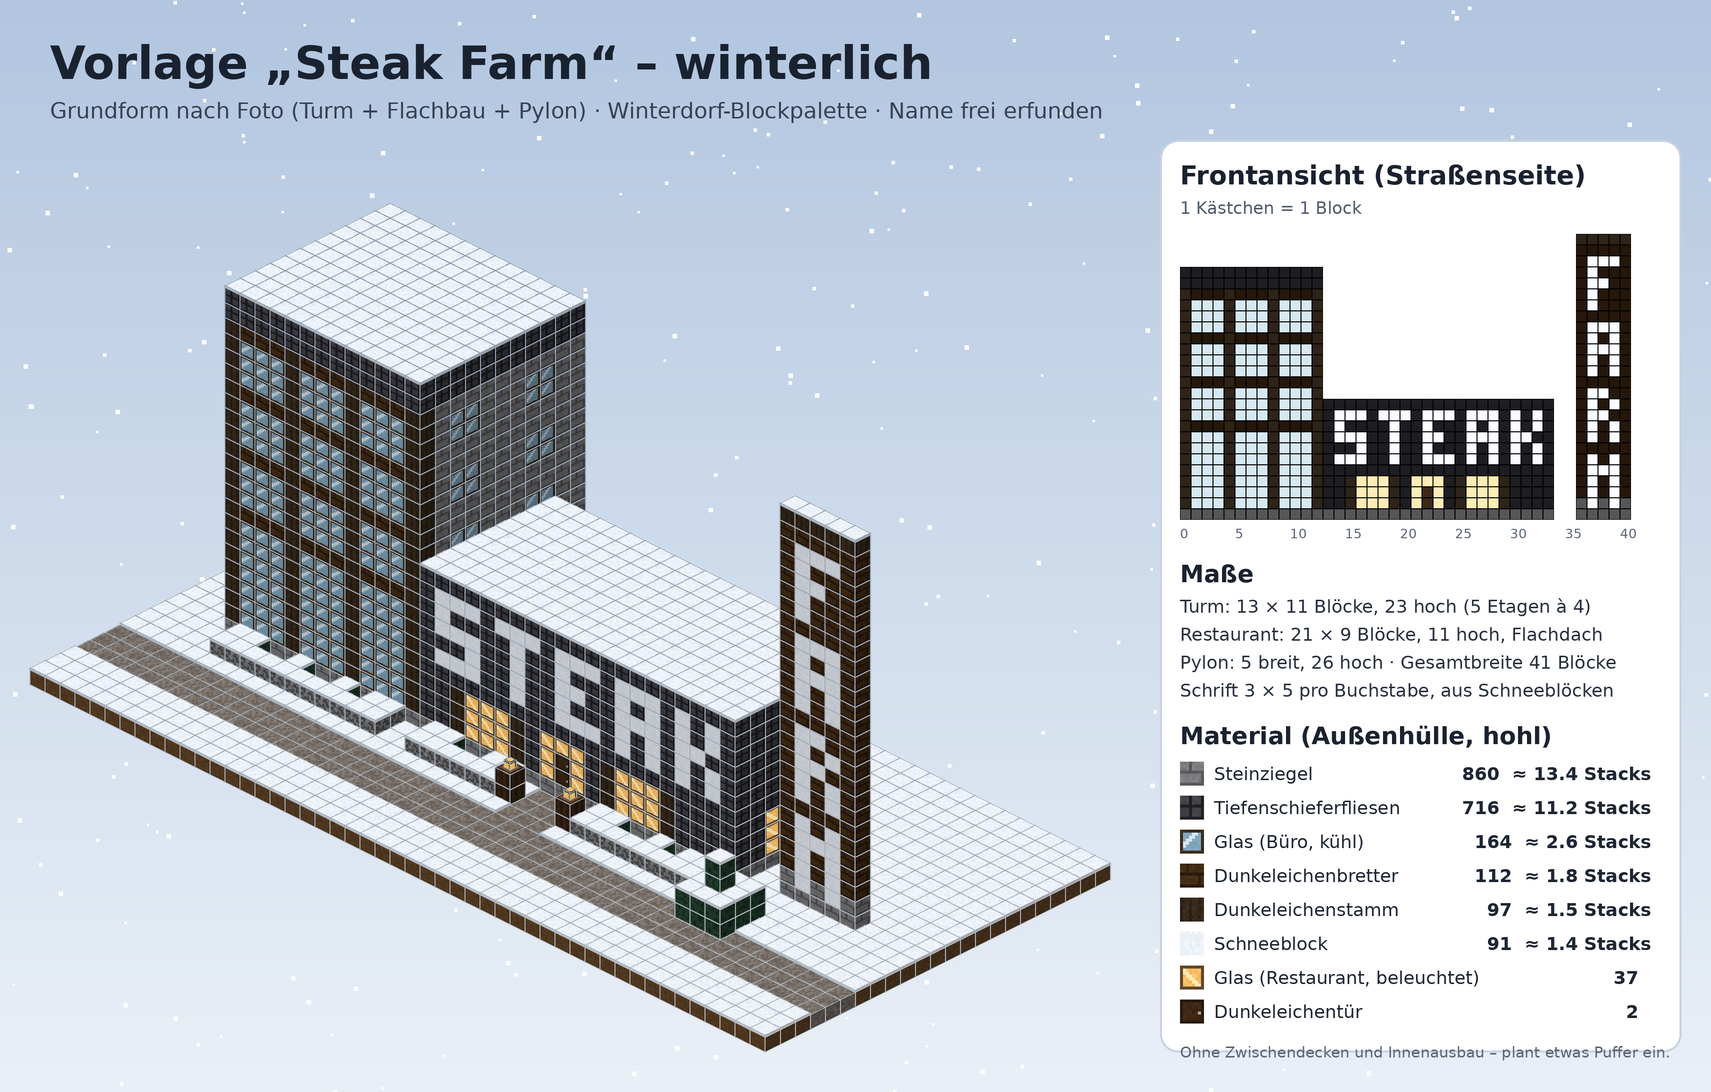
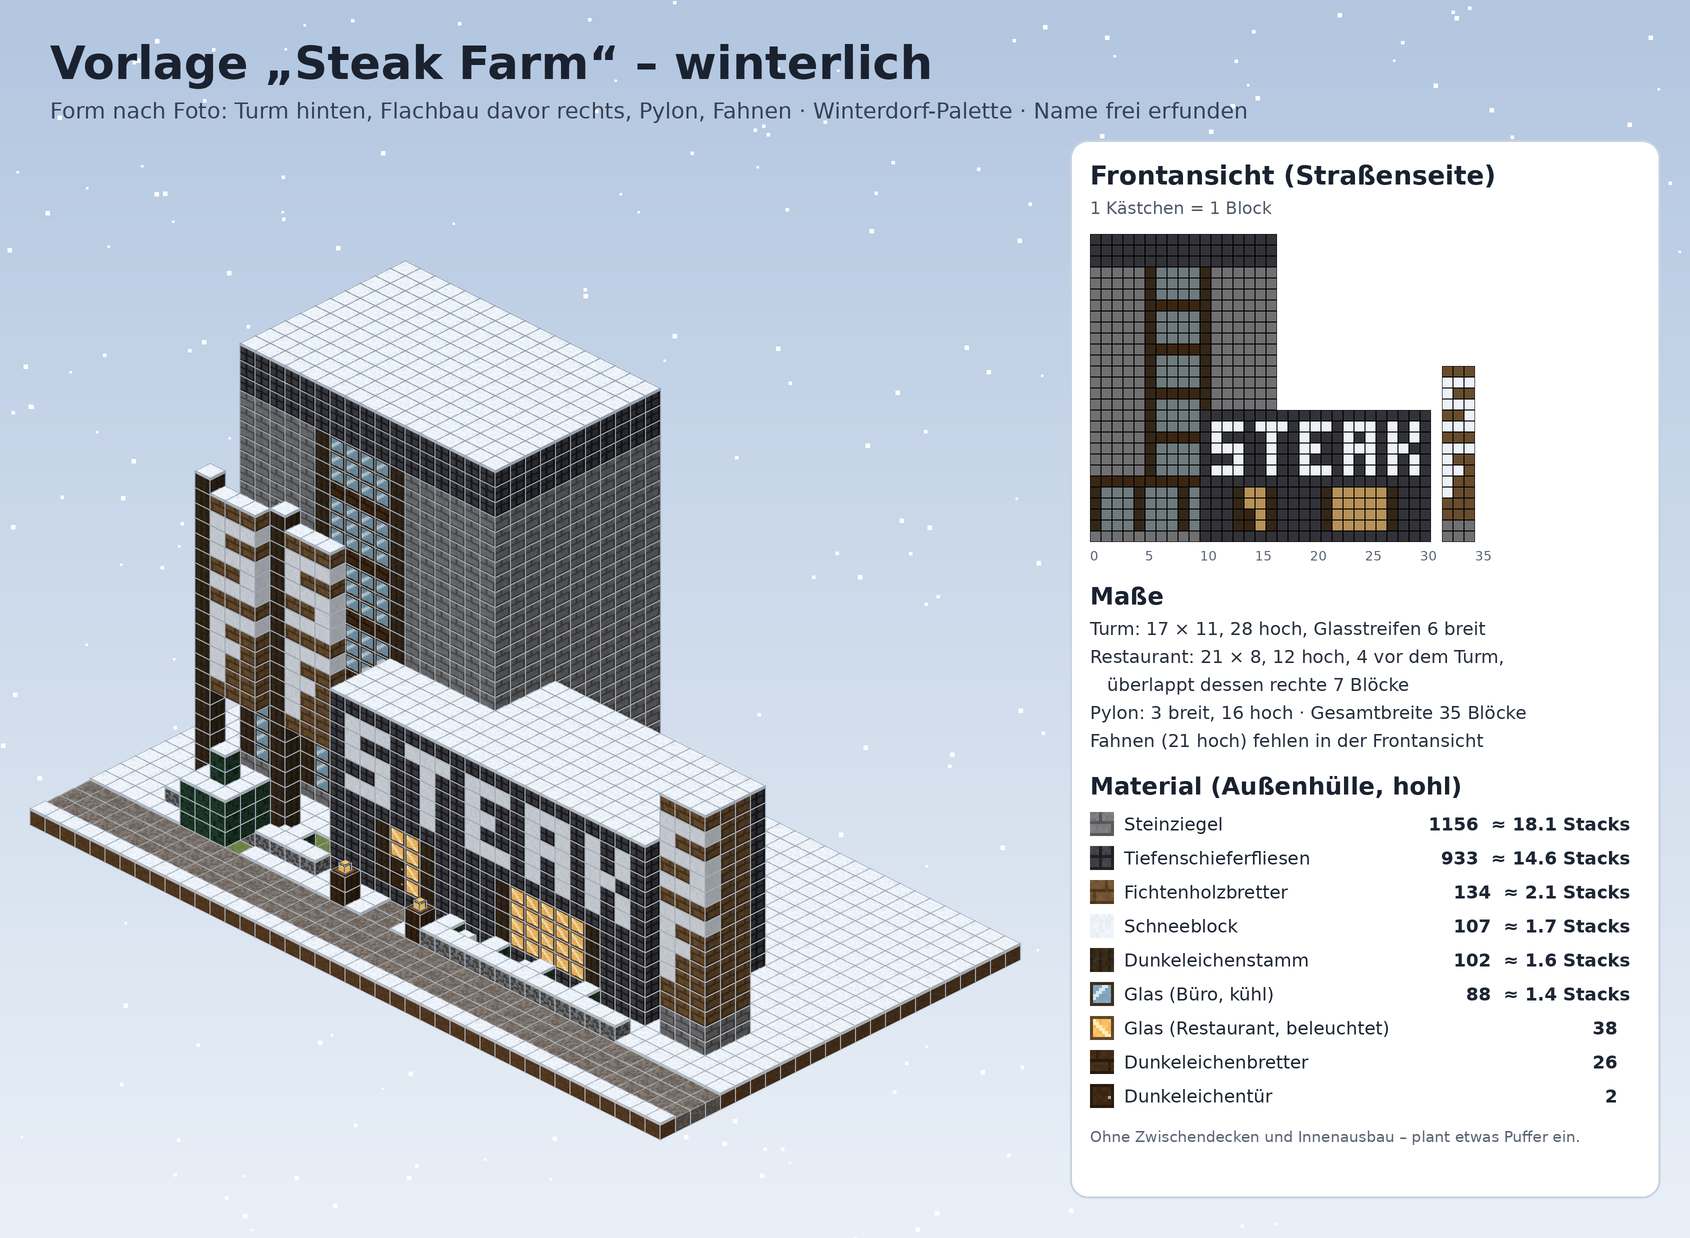
Steak Farm: Form näher am Foto (Turm hinten, Flachbau davor, Glasstreifen, Pylon, Fahnen)
Claude-Session: https://claude.ai/code/session_012m4W2KgnTD5X3YJVquBU2D

diff --git a/extras/winterdorf/steakfarm.py b/extras/winterdorf/steakfarm.py
@@ -27,99 +27,108 @@ NAMES = {
     "snow_layer": "Schneeschicht", "lantern": "Laterne", "leaves": "Fichtenlaub",
 }
 
-TX0, TX1, TY0, TY1, TZ1 = 0, 12, 0, 10, 22     # Turm
-RX0, RX1, RY0, RY1, RZ1 = 13, 33, 2, 10, 10    # Restaurant
-PX0, PX1, PY, PZ1 = 36, 40, 9, 25              # Pylon
+# Proportionen nach Foto: hoher Turm hinten links, dunkler Flachbau davor rechts (überlappt den Turm),
+# schmaler Pylon an der rechten Ecke, zwei Fahnenmasten vor dem Turm.
+TX0, TX1, TY0, TY1, TZ1 = 0, 16, 0, 10, 27     # Turm: 17 breit, 11 tief, 28 hoch
+RX0, RX1, RY0, RY1, RZ1 = 10, 30, 7, 14, 11    # Restaurant: 21 breit, 8 tief, 12 hoch, 4 vor dem Turm
+PX0, PX1, PY0, PY1, PZ1 = 32, 34, 12, 14, 15   # Pylon: 3 breit, 16 hoch
+GLASS_X = range(5, 11)                          # senkrechter Glasstreifen im Turm
 
 
-def build() -> tuple[Voxels, set[tuple[int, int, int]]]:
+def letter(v: Voxels, ch: str, x0: int, y: int, ztop: int, kind: str = "snow") -> None:
+    for r, row in enumerate(FONT3x5[ch]):
+        for c, px in enumerate(row):
+            if px == "X":
+                v.set(x0 + c, y, ztop - r, kind)
+
+
+def build() -> tuple[Voxels, set[tuple[int, int, int]], set[tuple[int, int, int]]]:
     v = Voxels()
-    # --- Turm (heller Stein, Glasfassade vorn, dunkles Band oben)
+    # --- Turm: heller Stein, Glasstreifen, verglastes Erdgeschoss, dunkles Band oben
     v.fill(TX0, TY0, 0, TX1, TY1, 0, "stone_bricks")
-    v.fill(TX0, TY0, 1, TX1, TY1, TZ1 - 2, "stone_bricks")
-    v.fill(TX0, TY0, TZ1 - 1, TX1, TY1, TZ1, "deepslate_tiles")
+    v.fill(TX0, TY0, 1, TX1, TY1, TZ1 - 3, "stone_bricks")
+    v.fill(TX0, TY0, TZ1 - 2, TX1, TY1, TZ1, "deepslate_tiles")
     for x in range(TX0, TX1 + 1):
-        for z in range(1, TZ1 - 1):
-            if x in (0, 4, 8, 12):
+        for z in range(1, 5):                        # Erdgeschoss rundum verglast
+            v.set(x, TY1, z, "dark_oak_log" if x % 4 == 0 else "glass")
+        v.set(x, TY1, 5, "dark_oak_planks")
+    for x in GLASS_X:                                # Glasfassade über alle Etagen
+        for z in range(6, TZ1 - 2):
+            if x in (GLASS_X.start, GLASS_X.stop - 1):
                 kind = "dark_oak_log"
-            elif z <= 4:
-                kind = "glass"                       # Erdgeschoss komplett verglast
-            elif (z - 1) % 4 == 3:
-                kind = "dark_oak_planks"             # Brüstung zwischen den Etagen
+            elif (z - 5) % 4 == 0:
+                kind = "dark_oak_planks"
             else:
                 kind = "glass"
             v.set(x, TY1, z, kind)
-    for y in (2, 3, 7, 8):                           # Seitenfenster
-        for z in range(6, TZ1 - 2, 4):
-            v.set(TX1, y, z, "glass"); v.set(TX1, y, z + 1, "glass")
-    # --- Restaurant (dunkler Flachbau)
-    v.fill(RX0, RY0, 0, RX1, RY1, 0, "stone_bricks")
-    v.fill(RX0, RY0, 1, RX1, RY1, RZ1, "deepslate_tiles")
-    for x0 in (15, 25):
-        for x in range(x0, x0 + 5):
-            for z in (1, 2, 3):
-                v.set(x, RY1, z, "glass_lit" if x not in (x0, x0 + 4) else "dark_oak_log")
-    for x in range(21, 24):
-        for z in (1, 2, 3):
-            v.set(x, RY1, z, "door" if (x == 22 and z < 3) else "glass_lit")
-    for y in (4, 5, 7, 8):
-        for z in (1, 2, 3):
-            v.set(RX1, y, z, "glass_lit")
-    # Schriftzug STEAK aus Schneeblöcken im Band
-    x = 14
+    # --- Restaurant: dunkler Kasten, Eingang links, großes Fenster rechts, Schriftzug oben
+    v.fill(RX0, RY0, 0, RX1, RY1, RZ1, "deepslate_tiles")
+    for z in range(1, 5):
+        for x in range(13, 17):                      # Eingang (Glas + Tür)
+            v.set(x, RY1, z, "dark_oak_log" if x in (13, 16) else ("door" if z < 3 and x == 14 else "glass_lit"))
+        for x in range(21, 28):                      # großes Fenster
+            v.set(x, RY1, z, "dark_oak_log" if x in (21, 27) else "glass_lit")
+    x = RX0 + 1
     for ch in "STEAK":
-        for r, row in enumerate(FONT3x5[ch]):
-            for c, px in enumerate(row):
-                if px == "X":
-                    v.set(x + c, RY1, 9 - r, "snow")
+        letter(v, ch, x, RY1, RZ1 - 1)
         x += 4
-    # --- Pylon mit FARM (senkrecht)
-    v.fill(PX0, PY, 0, PX1, PY, 1, "stone_bricks")
-    v.fill(PX0, PY, 2, PX1, PY, PZ1, "dark_oak_planks")
-    v.fill(PX0, PY, PZ1, PX1, PY, PZ1, "dark_oak_log")
-    top = PZ1 - 2
-    for ch in "FARM":
-        for r, row in enumerate(FONT3x5[ch]):
-            for c, px in enumerate(row):
-                if px == "X":
-                    v.set(PX0 + 1 + c, PY, top - r, "snow")
-        top -= 6
+    for y in (9, 10, 11):                            # Seitenfenster rechts
+        for z in range(1, 5):
+            v.set(RX1, y, z, "glass_lit")
+    # --- Pylon an der rechten Ecke, etwas höher als der Flachbau, Monogramm S/F
+    v.fill(PX0, PY0, 0, PX1, PY1, 1, "stone_bricks")
+    v.fill(PX0, PY0, 2, PX1, PY1, PZ1, "spruce_planks")
+    letter(v, "S", PX0, PY1, PZ1 - 1)
+    letter(v, "F", PX0, PY1, PZ1 - 7)
     building = set(v.b)
+    # --- Zwei Fahnenmasten vor dem Turm (wie die senkrechten Banner auf dem Foto)
+    decor: set[tuple[int, int, int]] = set()
+    for bx in (0, 5):
+        for z in range(0, 21):
+            v.set(bx, 13, z, "dark_oak_log"); decor.add((bx, 13, z))
+        for z in range(7, 20):
+            for c in range(1, 4):
+                v.set(bx + c, 13, z, "spruce_planks"); decor.add((bx + c, 13, z))
+        for ch, top in (("S", 18), ("F", 12)):
+            for r, row in enumerate(FONT3x5[ch]):
+                for c, px in enumerate(row):
+                    if px == "X":
+                        v.set(bx + 1 + c, 13, top - r, "snow")
     # --- Gelände
-    for gx in range(-4, 45):
-        for gy in range(-3, 20):
+    for gx in range(-4, 38):
+        for gy in range(-3, 21):
             if (gx, gy, -1) not in v.b:
                 v.set(gx, gy, -1, "grass")
-    for gx in range(-4, 45):                          # freigeschaufelter Gehweg
-        for gy in (14, 15, 16):
+    for gx in range(-4, 38):                          # freigeschaufelter Gehweg
+        for gy in (17, 18, 19):
             v.set(gx, gy, -1, "path")
-    for gx in range(21, 24):
-        for gy in range(11, 14):
+    for gx in range(14, 16):
+        for gy in (15, 16):
             v.set(gx, gy, -1, "path")
-    # Pflanzbeete mit Bruchsteinrand, Büschen und Schneekugeln
-    for bx0, bx1 in ((1, 11), (14, 19), (25, 32)):
+    # Beete mit Bruchsteinrand, Büschen und Schneekugeln (die weißen Kugeln vom Foto)
+    for bx0, bx1, by in ((0, 9, 14), (17, 30, 15)):
         for gx in range(bx0, bx1 + 1):
-            for gy in (11, 12):
-                edge = gx in (bx0, bx1) or gy == 12
-                if edge:
-                    v.set(gx, gy, 0, "cobblestone")
+            v.set(gx, by + 1, 0, "cobblestone")
         for gx in range(bx0 + 1, bx1, 3):
-            v.set(gx, 11, 0, "leaves")
-        v.set(bx1 - 1, 11, 0, "snow")
-    # Laternen und kleine Fichte am Eingang
-    for lx in (20, 24):
-        v.fill(lx, 12, 0, lx, 12, 1, "spruce_log")
-        v.set(lx, 12, 2, "lantern", (0.3, 0.3, 0, 0.7, 0.7, 0.5))
-    for z, rad in ((0, 1), (1, 1), (2, 0), (3, 0)):
+            if (gx, by, 0) not in v.b:
+                v.set(gx, by, 0, "leaves")
+        for gx in range(bx0 + 2, bx1, 4):
+            if (gx, by, 0) not in v.b:
+                v.set(gx, by, 0, "snow", (0.15, 0.15, 0, 0.85, 0.85, 0.7))
+    for lx in (12, 17):
+        v.fill(lx, 16, 0, lx, 16, 1, "spruce_log")
+        v.set(lx, 16, 2, "lantern", (0.3, 0.3, 0, 0.7, 0.7, 0.5))
+    # kleine Fichte (statt der kahlen Bäume vom Foto)
+    for z, rad in ((0, 0), (1, 1), (2, 1), (3, 1), (4, 0), (5, 0)):
         for dx in range(-rad, rad + 1):
             for dy in range(-rad, rad + 1):
-                v.set(35 + dx, 13 + dy, z, "leaves")
+                v.set(4 + dx, 16 + dy, z, "spruce_log" if (z == 0) else "leaves")
     v.snow_cover(skip={"path", "lantern"})
-    return v, building
+    return v, building, decor
 
 
 def main() -> None:
-    v, building = build()
+    v, building, decor = build()
     SS = 2
     pic = v.render(15 * SS, pad=30 * SS)
     # Frontansicht (vorderster Block je x/z)
@@ -139,8 +148,9 @@ def main() -> None:
         return any(q not in building for q in ((x + 1, y, z), (x - 1, y, z), (x, y + 1, z),
                                                (x, y - 1, z), (x, y, z + 1), (x, y, z - 1)))
     counts = Counter(v.b[p][0] for p in building if shell(p))
-    W = pic.width + elev_w + 120 * SS
-    H = max(pic.height, elev_h + 620 * SS) + 170 * SS
+    counts.update(v.b[p][0] for p in decor)
+    W = pic.width + max(elev_w, 520 * SS) + 120 * SS
+    H = max(pic.height, elev_h + 760 * SS) + 170 * SS
     img = gradient(W, H, (178, 198, 224), (234, 240, 247))
     rng = random.Random(9)
     d = ImageDraw.Draw(img)
@@ -151,7 +161,7 @@ def main() -> None:
     d = ImageDraw.Draw(img)
     d.text((50 * SS, 36 * SS), "Vorlage „Steak Farm“ – winterlich", font=font(46 * SS, True), fill=(26, 34, 48))
     d.text((50 * SS, 98 * SS),
-           "Grundform nach Foto (Turm + Flachbau + Pylon) · Winterdorf-Blockpalette · Name frei erfunden",
+           "Form nach Foto: Turm hinten, Flachbau davor rechts, Pylon, Fahnen · Winterdorf-Palette · Name frei erfunden",
            font=font(22 * SS), fill=(55, 66, 84))
 
     # Frontansicht zeichnen
@@ -164,15 +174,16 @@ def main() -> None:
     for (x, z), kind in front.items():
         t = tex(kind, "side", 1)
         px, py = ex + (x - fx0) * cs, gy0 + (fz1 - z) * cs
-        col = t[3][3] if kind not in ("snow",) else (250, 252, 255)
+        col = tuple(sum(t[r][c][i] for r in range(N) for c in range(N)) // (N * N) for i in range(3))
         d.rectangle([px, py, px + cs - 1, py + cs - 1], fill=col, outline=(0, 0, 0, 50))
     for i in range(0, fx1 - fx0 + 2, 5):
         d.text((ex + i * cs, gy0 + elev_h + 6 * SS), str(i), font=font(13 * SS), fill=(90, 100, 116))
     dims = [
-        f"Turm: {TX1 - TX0 + 1} × {TY1 - TY0 + 1} Blöcke, {TZ1 + 1} hoch (5 Etagen à 4)",
-        f"Restaurant: {RX1 - RX0 + 1} × {RY1 - RY0 + 1} Blöcke, {RZ1 + 1} hoch, Flachdach",
+        f"Turm: {TX1 - TX0 + 1} × {TY1 - TY0 + 1}, {TZ1 + 1} hoch, Glasstreifen 6 breit",
+        f"Restaurant: {RX1 - RX0 + 1} × {RY1 - RY0 + 1}, {RZ1 + 1} hoch, 4 vor dem Turm,",
+        f"   überlappt dessen rechte {TX1 - RX0 + 1} Blöcke",
         f"Pylon: {PX1 - PX0 + 1} breit, {PZ1 + 1} hoch · Gesamtbreite {PX1 + 1} Blöcke",
-        "Schrift 3 × 5 pro Buchstabe, aus Schneeblöcken",
+        "Fahnen (21 hoch) fehlen in der Frontansicht",
     ]
     ly = gy0 + elev_h + 40 * SS
     d.text((ex, ly), "Maße", font=font(24 * SS, True), fill=(26, 34, 48)); ly += 36 * SS
